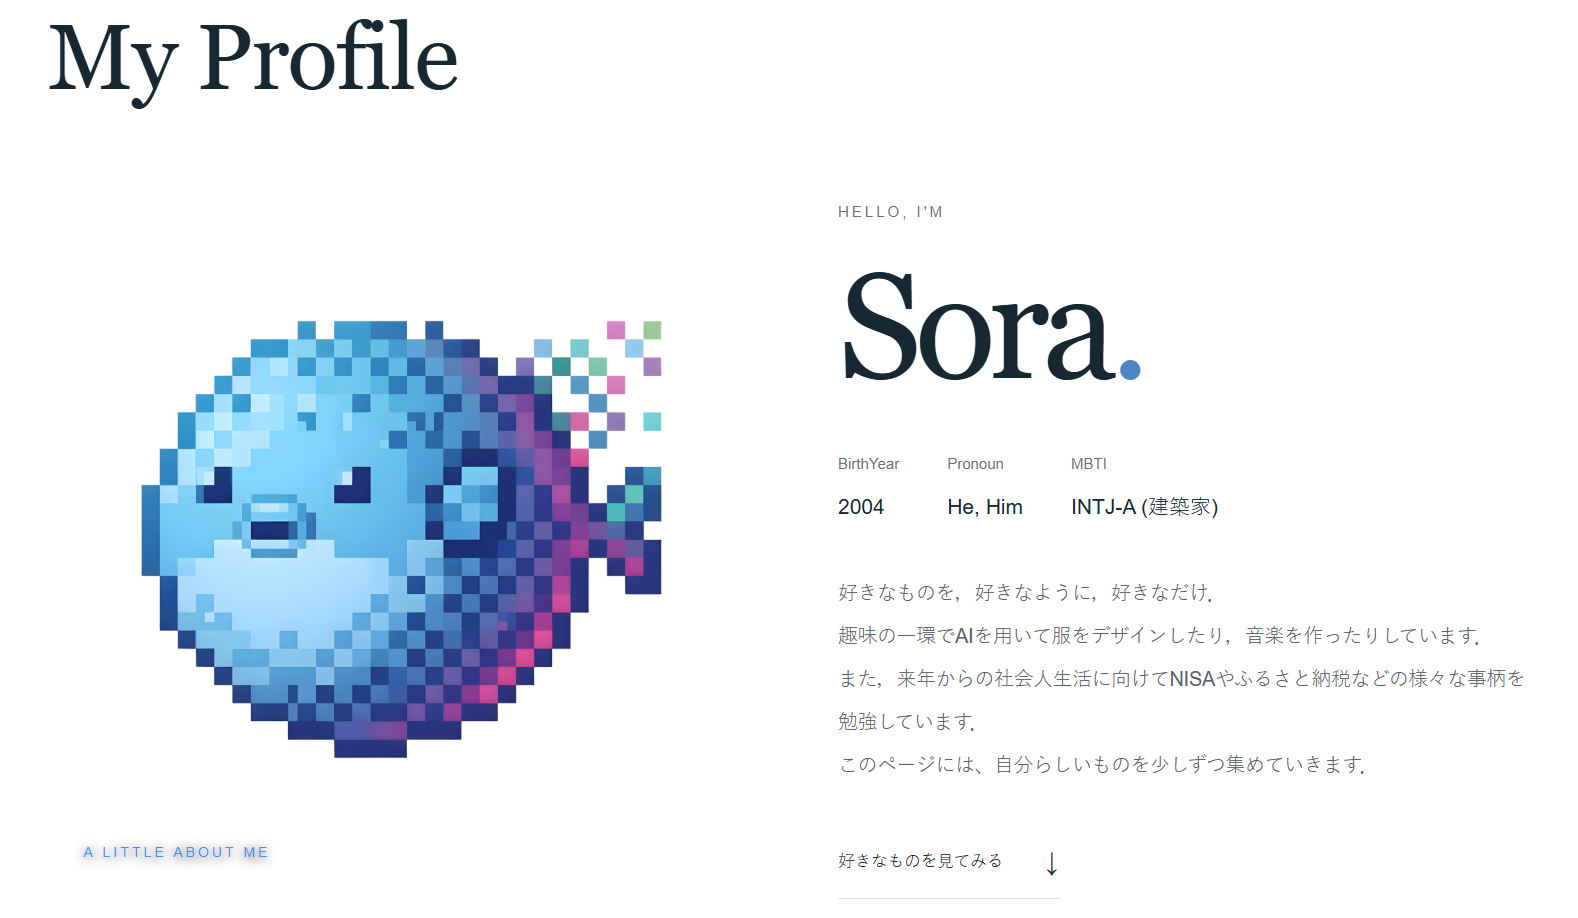
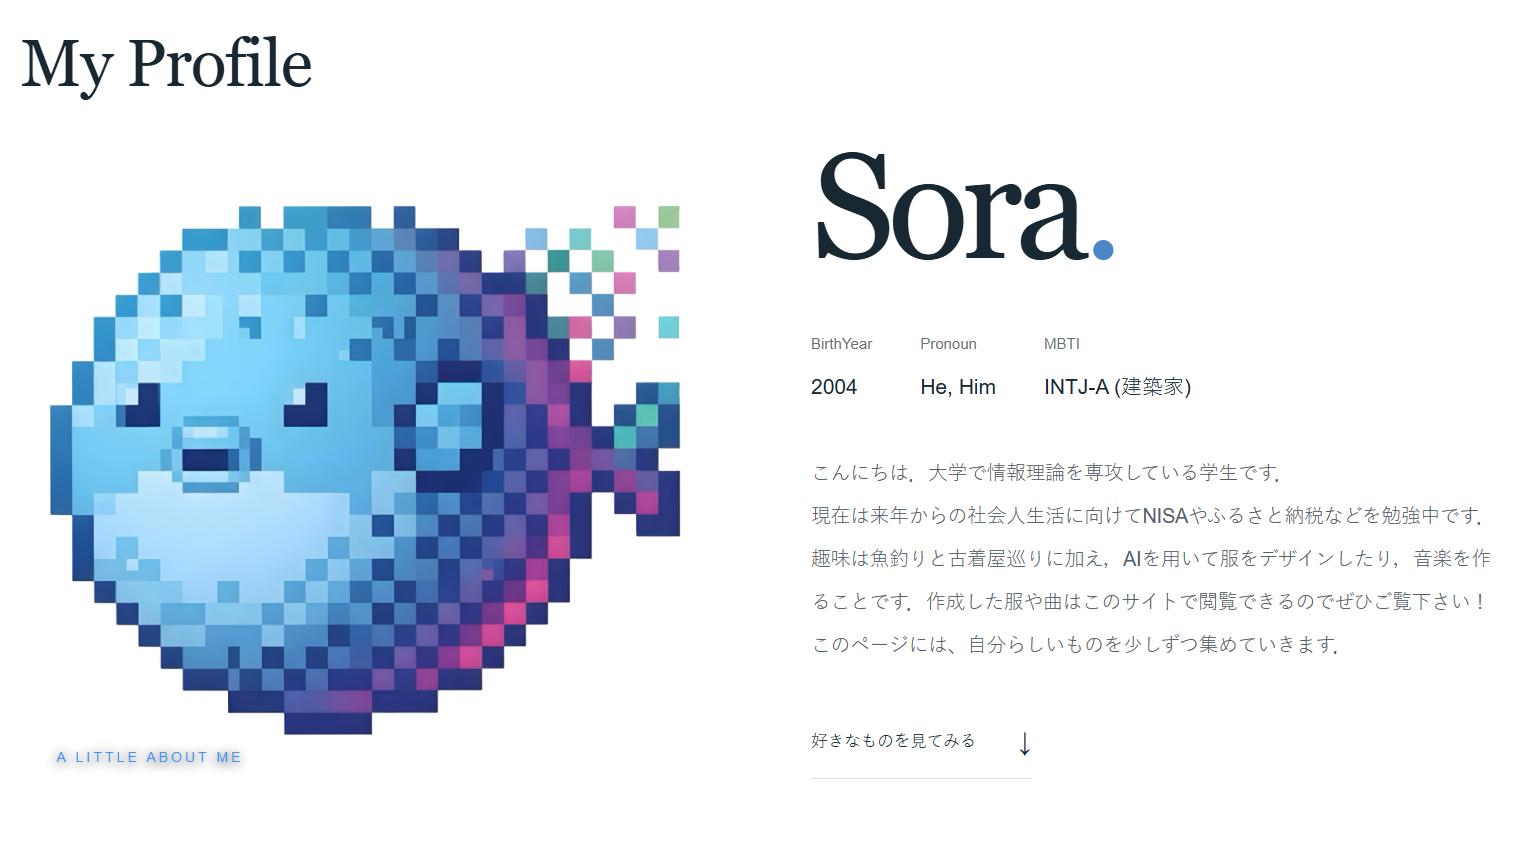
微

diff --git a/src/data/profile.ts b/src/data/profile.ts
@@ -1,7 +1,7 @@
 // プロフィールの文章・画像・資格・SNSはここで編集します。
 export const profile = {
     name: 'Sora', birthYear: '2004', pronoun: 'He, Him', mbti: 'INTJ-A (建築家)',
-    introduction: '好きなものを，好きなように，好きなだけ．\n趣味は魚釣りと古着屋巡りに加え，AIを用いて服をデザインしたり，音楽を作ることです．作成した服や曲はこのサイトで閲覧できるのでぜひご覧下さい！\nまた，来年からの社会人生活に向けてNISAやふるさと納税などを勉強中です．\nこのページには、自分らしいものを少しずつ集めていきます．',
+    introduction: 'こんにちは．大学で情報理論を専攻している学生です．\n現在は来年からの社会人生活に向けてNISAやふるさと納税などを勉強中です．\n趣味は魚釣りと古着屋巡りに加え，AIを用いて服をデザインしたり，音楽を作ることです．作成した服や曲はこのサイトで閲覧できるのでぜひご覧下さい！\nこのページには、自分らしいものを少しずつ集めていきます．',
     image: '/images/pro.png', imageAlt: 'フグ',
 };
 // 記入例です。実際の資格と取得日に変更してください。日付順に表示されます。
